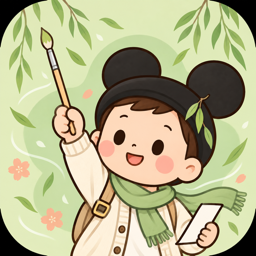
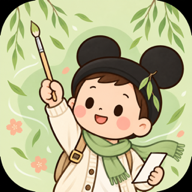
perf: reduce themed mascot assets

diff --git a/public/branding/themes/README.md b/public/branding/themes/README.md
@@ -12,4 +12,4 @@
 | 宇宙 | `app-icon-space.png` | `app-icon-space-windows.png` |
 | 海洋 | `app-icon-ocean.png` | `app-icon-ocean-windows.png` |
 
-主题插画使用本地生成资源并缩放为 256px，单个文件约 55–100KB；主题切换只替换本地图片 URL，不引入网络请求。Windows 与 macOS WebView 使用同一套主题构图，平台原生图标文件不变。
+主题插画使用本地生成资源并缩放为 192px，单个文件约 54–76KB，14 个文件合计约 984KB；在当前 24–68px 的显示范围内保留接近 3× 的清晰度。主题切换只替换本地图片 URL，不引入网络请求。Windows 与 macOS WebView 使用同一套主题构图，平台原生图标文件不变。
